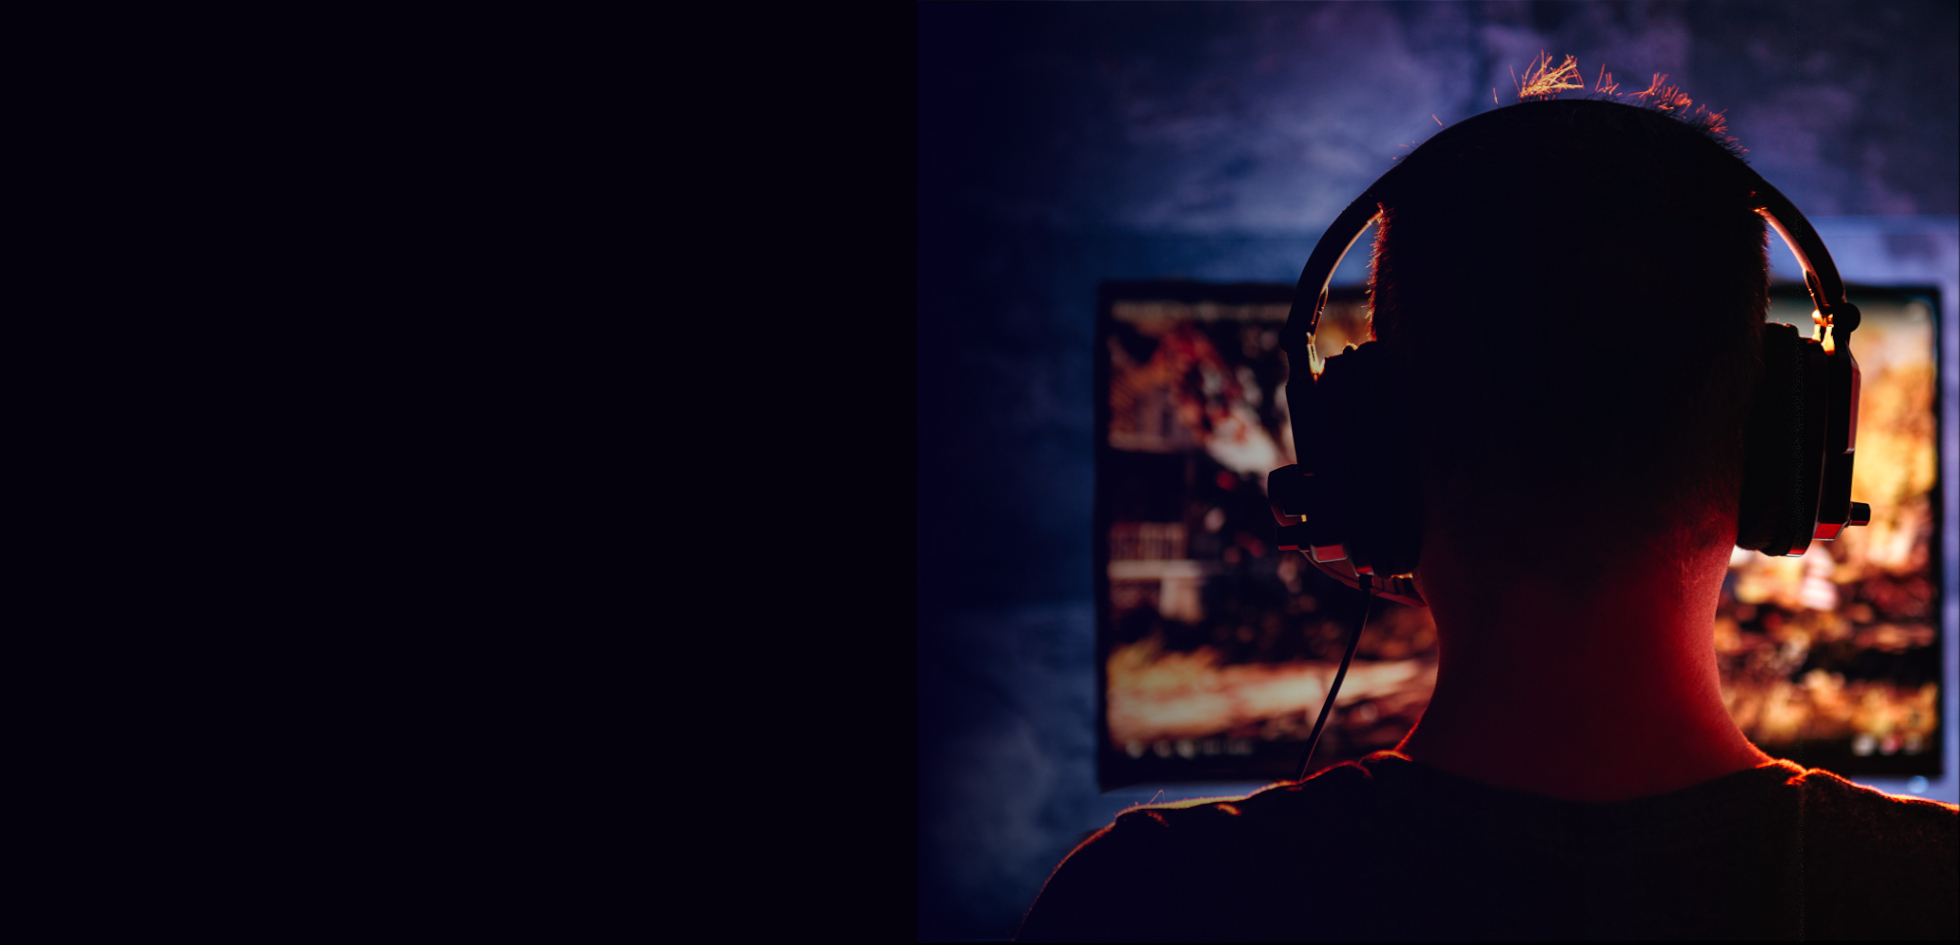
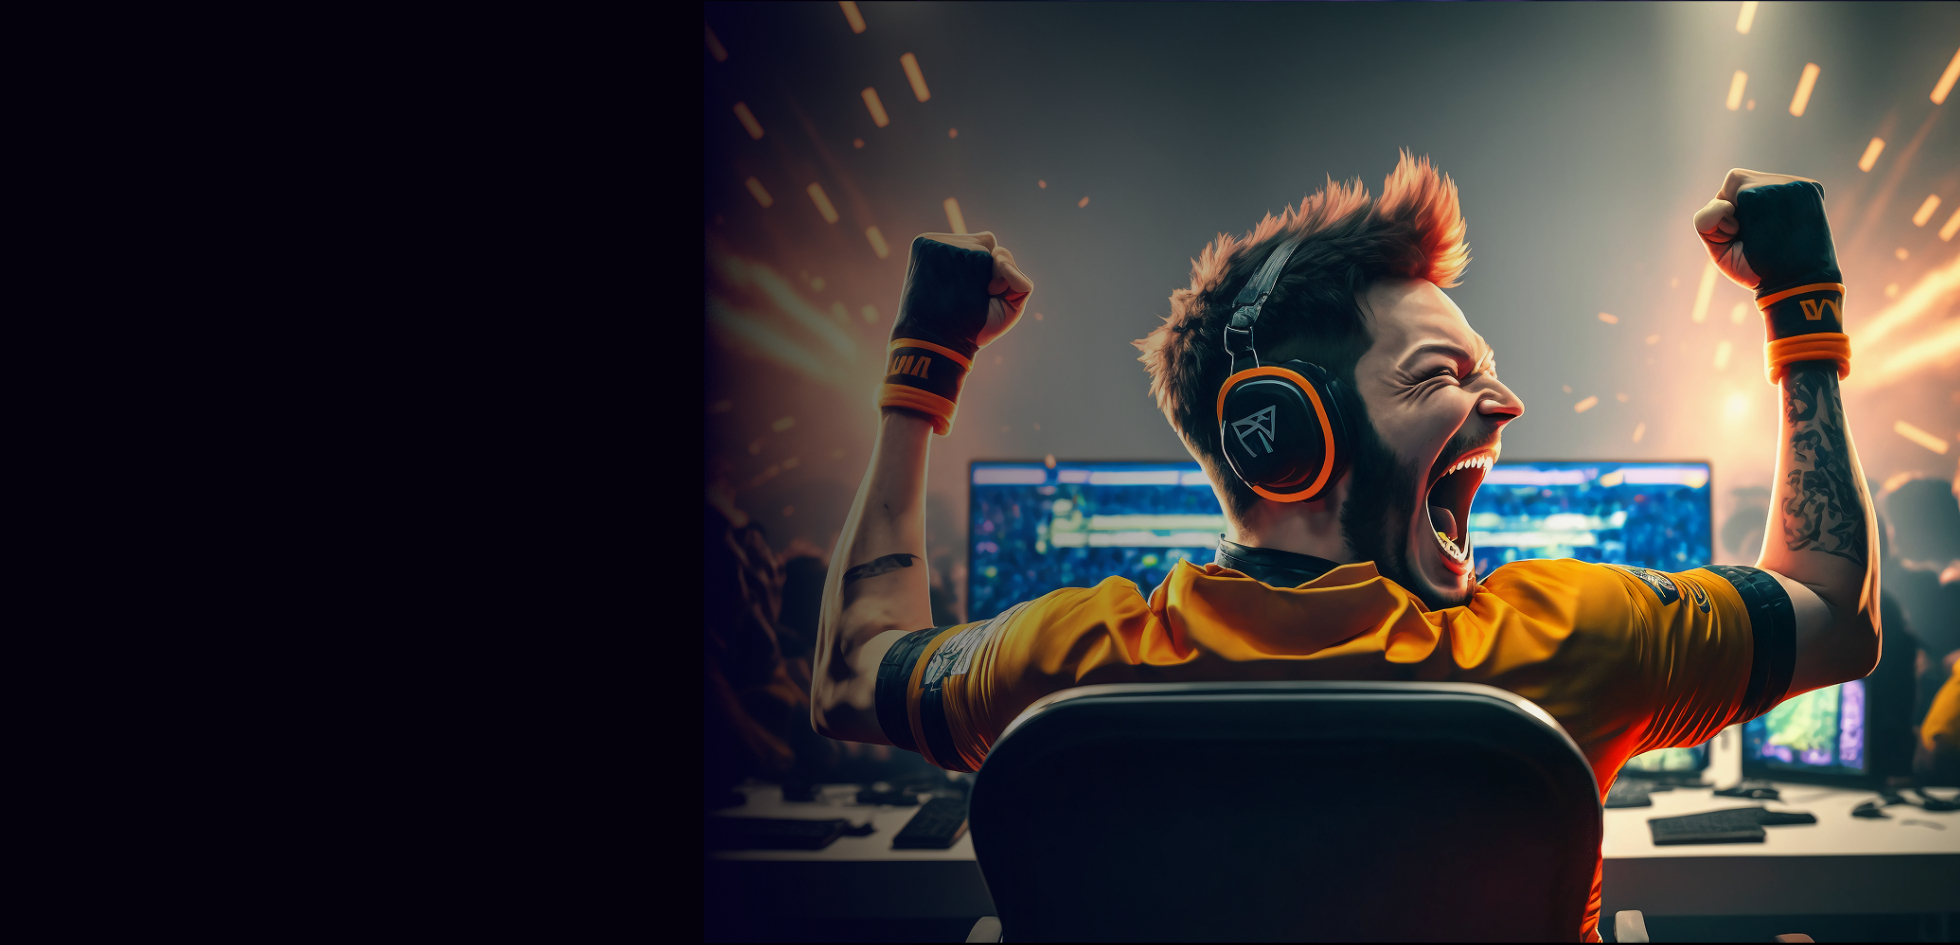
fixes

diff --git a/home.html b/home.html
@@ -38,7 +38,7 @@
       <!-- Buy Presale Button (Right) -->
       <div class="nav-right">
         <div class="divider"></div>
-        <a href="#" class="btn-presale">Buy Presale</a>
+        <a href="#" target="_blank" class="btn-presale">Buy Presale</a>
         <!-- Hamburger (Mobile) -->
         <button id="menu-btn" class="hamburger">
           <svg class="hamburger-icon" fill="none" stroke="currentColor" viewBox="0 0 24 24">
@@ -70,11 +70,11 @@
     <!-- Text Content -->
     <div class="slide-content">
       <h1 class="title gradient-text">
-        eCommerce Via Video Games<br> 
-        <span class="highlight-white">Gamify eCommerce & GamiFi transactions</span>
+        eCommerce Via Esports <br>Video Games<br> 
+        <span class="highlight-white">Gamify eCommerce<br>& GamiFi transactions</span>
       </h1>
       <p class="subtitle">
-        The first in kind Multifaceted & Play2Earn <br> Marketplace using Gaming, Streaming and Play<br> funding features powered by AI & Blockchain.
+        The first in kind Multifaceted & Play2Earn<br>Marketplace using Gaming, Streaming and Play<br>funding features powered by AI & Blockchain.
       </p>
     </div>
 
@@ -135,42 +135,46 @@
 
     <!-- Progress Bar Section -->
     <section class="progress-section">
-      <h2 class="section-title-white">Roadmap Progress</h2>
+  <h2 class="section-title-white">Roadmap Progress</h2>
+  <!-- Progress Line Behind -->
+  <div class="progress-bar">
+    <div class="progress-fill" style="width: 50%;"></div>
+  </div>
 
-      <div class="progress-bar">
-        <div class="progress-fill" style="width: 50%;"></div>
-        <div class="milestones">
-          <div class="milestone">
-            <div class="milestone-dot"></div>
-            <span>
-              Milestone 1<br>
-              <span class="timeline">Timeline 1</span>
-            </span>
-          </div>
-          <div class="milestone">
-            <div class="milestone-dot"></div>
-            <span>
-              Milestone 2<br>
-              <span class="timeline">Timeline 2</span>
-            </span>
-          </div>
-          <div class="milestone">
-            <div class="milestone-dot"></div>
-            <span>
-              Milestone 3<br>
-              <span class="timeline">Timeline 3</span>
-            </span>
-          </div>
-          <div class="milestone">
-            <div class="milestone-dot"></div>
-            <span>
-              Milestone 4<br>
-              <span class="timeline">Timeline 4</span>
-            </span>
-          </div>
-        </div>
-      </div>
-    </section>
+  <div class="milestones">
+    <div class="milestone">
+      <div class="milestone-dot"></div>
+      <span>
+        Accepted into HYPE Sports Innovation Accelerator - GVA2.0 & NFT programs - picked by 
+        <a href="https://geng.gg/" target="_blank">Gen.G</a> one of the World's leading Esports organizations connecting the U.S. and Asia.<br>
+        <span class="timeline">Timeline 1</span>
+      </span>
+    </div>
+    <div class="milestone">
+      <div class="milestone-dot"></div>
+      <span>
+        SellBuyPlay - Greek Branch has been approved as an OFFICIAL MEMBER of the National Startup Registry aka 
+        <a href="https://registry.elevategreece.gov.gr/company/sellbuyplay-greek-branch/" target="_blank">Elevate Greece</a>.<br>
+        <span class="timeline">Timeline 2</span>
+      </span>
+    </div>
+    <div class="milestone">
+      <div class="milestone-dot"></div>
+      <span>
+        Signed a SAFE agreement for our Angel round with a Greek Angel investor, acquiring a post-money valuation of €4Million.<br>
+        <span class="timeline">Timeline 3</span>
+      </span>
+    </div>
+    <div class="milestone">
+      <div class="milestone-dot"></div>
+      <span>
+        Preparing for an ICO & an IDO to launch/ pre-sale our Esports/ eCommerce oriented Crypto token- $SBP!<br>
+        <span class="timeline">Timeline 4</span>
+      </span>
+    </div>
+  </div>
+
+</section>
 
     <!-- Market Opportunity Section -->
 <section class="main-section">
@@ -273,7 +277,7 @@
       </div>
       <!-- Note -->
       <p class="note">
-        *Tokenomics are subject to be altered in accordance with IDO Presale performance, fellow gamers please help us raise it! This doesn't constitute an investment advise and you should DYOR!
+        *Tokenomics are subject to be altered in accordance with IDO Presale performance, fellow gamers please help us raise it - This doesn't constitute an investment advise and you should DYOR!
       </p>
     </div>
 
@@ -479,16 +483,16 @@
 
       <!-- Supported By -->
       <div class="footer-column">
-        <p class="section-title">Supported By</p>
+        <p class="section-title2">Supported By</p>
         <ul>
           <li>
-            <a href="https://www.hypesportsinnovation.com/startup/sellbuyplay/">
-              <img src="imgs/hype.jpg" alt="Elevate Greece">
+            <a href="https://registry.elevategreece.gov.gr/company/sellbuyplay-greek-branch/" target="_blank">
+              <img style="width: 180px;" src="imgs/elevateGreece.png" alt="Elevate Greece">
             </a>
           </li>
           <li>
-            <a href="https://registry.elevategreece.gov.gr/company/sellbuyplay-greek-branch/">
-              <img src="imgs/elevateGreece.png" alt="Elevate Greece">
+            <a href="https://www.hypesportsinnovation.com/startup/sellbuyplay/" target="_blank">
+              <img style="width: 180px;" src="imgs/hype.jpg" alt="Elevate Greece">
             </a>
           </li>
         </ul>
@@ -496,18 +500,18 @@
 
       <!-- Communities -->
       <div class="footer-column">
-        <p class="section-title">Join our Communities</p>
+        <p class="section-title2">Join our Communities</p>
         <div class="community-grid">
-          <a href="#"><img src="imgs/svg/telegram.svg"> Telegram</a>
-          <a href="#"><img src="imgs/svg/twitter.svg"> Twitter</a>
-          <a href="#"><img src="imgs/svg/facebook.svg"> Facebook</a>
-          <a href="#"><img src="imgs/svg/reddit.svg"> Reddit</a>
-          <a href="#" class="discord"><img src="imgs/svg/discord.svg"> Discord</a>
-          <a href="#"><img src="imgs/svg/linkedin.svg"> LinkedIn</a>
-          <a href="#"><img src="imgs/svg/medium.svg"> Medium</a>
-          <a href="#"><img src="imgs/svg/quora.svg"> Quora</a>
-          <a href="#"><img src="imgs/svg/instagram.svg"> Instagram</a>
-          <a href="#"><img src="imgs/svg/tiktok.svg"> TikTok</a>
+          <a href="#" target="_blank"><img src="imgs/svg/telegram.svg"> Telegram</a>
+          <a href="#" target="_blank"><img src="imgs/svg/twitter.svg"> Twitter</a>
+          <a href="#" target="_blank"><img src="imgs/svg/facebook.svg"> Facebook</a>
+          <a href="#" target="_blank"><img src="imgs/svg/reddit.svg"> Reddit</a>
+          <a href="#" target="_blank" class="discord"><img src="imgs/svg/discord.svg"> Discord</a>
+          <a href="#" target="_blank"><img src="imgs/svg/linkedin.svg"> LinkedIn</a>
+          <a href="#" target="_blank"><img src="imgs/svg/medium.svg"> Medium</a>
+          <a href="#" target="_blank"><img src="imgs/svg/quora.svg"> Quora</a>
+          <a href="#" target="_blank"><img src="imgs/svg/instagram.svg"> Instagram</a>
+          <a href="#" target="_blank"><img src="imgs/svg/tiktok.svg"> TikTok</a>
         </div>
       </div>
 
@@ -524,8 +528,5 @@
 
   </div>
 </footer>
-
-
-
 </body>
 </html>

diff --git a/style.css b/style.css
@@ -312,51 +312,57 @@
   box-shadow: 0 0 0 2px #1C75BC;
 }
 
-/* Progress Bar */
+
+/* Progress section */
+.progress-section {
+  position: relative;
+}
+
+/* Background bar */
 .progress-bar {
   position: relative;
   width: 100%;
   height: 0.5rem;
   background: #374151;
   border-radius: 9999px;
-  margin-bottom: 3rem;
+  margin-bottom: 0rem;
 }
 
 .progress-fill {
-  position: absolute;
-  top: 0;
-  left: 0;
-  height: 0.5rem;
+  height: 100%;
   background: linear-gradient(90deg, #004aad, #00c364);
   border-radius: 9999px;
 }
 
-/* Milestones */
+/* Milestones container */
 .milestones {
   display: flex;
   justify-content: space-between;
-  position: absolute;
-  top: -2rem;
-  left: 0;
-  width: 100%;
+  position: relative;
+  z-index: 1; /* ensures dots stay above the bar */
+  margin-top: 1rem;
+}
+
+/* Each milestone column */
+.milestone {
+  width: 22%; /* keeps spacing balanced */
+  text-align: center;
   font-size: 0.875rem;
   font-weight: 500;
 }
 
-.milestone {
-  display: flex;
-  flex-direction: column;
-  align-items: center;
-  width: 25%;
-  text-align: center;
-}
-
+/* Dot aligned with text */
 .milestone-dot {
   width: 1.25rem;
   height: 1.25rem;
   border-radius: 50%;
   background: #22c55e;
-  margin-bottom: 25px;
+  margin: -30px auto 1rem; /* centers above text */
+}
+
+.milestone a {
+  text-decoration: underline;
+  font-weight: bold;
 }
 
 .timeline {
@@ -369,7 +375,23 @@
 
 
 
+
+
                                             /* Small screrens */
+@media (max-width: 768px) {
+  .milestone-dot,.progress-bar {
+    display: none;
+  }
+  .milestone {
+    width: auto;
+    padding: 7%;
+  }
+
+  .milestones {
+    display:contents;
+  }
+}
+
 
 @media (min-width: 768px) {
   .slide-content {
@@ -452,13 +474,6 @@
   padding: 3rem 10%;
 }
 
-.section-title {
-  text-align: center;
-  font-size: 2.5rem;
-  font-weight: 700;
-  margin-bottom: 2.5rem;
-  color: #fff;
-}
 
 .sub-title {
   text-align: center;
@@ -555,7 +570,7 @@
 
 /* Heading */
 .video-title {
-  font-size: 1.5rem; /* Tailwind's text-2xl equivalent */
+  font-size: 1.75rem; /* Tailwind's text-2xl equivalent */
   font-weight: 700;
   color: #fff;
   margin-bottom: 1.5rem;
@@ -594,7 +609,7 @@
 /* Title */
 .section-title {
   text-align: center;
-  font-size: 2rem;
+  font-size: 1.75rem;
   font-weight: bold;
   margin-bottom: 2.5rem;
   color: #fff;
@@ -1015,8 +1030,13 @@
   }
 }
 
+.footer-column{
+  max-width: 250px;
+  max-height: 270px;
+}
+
 .footer-column h3,
-.section-title {
+.section-title2 {
   color: #fff;
   font-weight: 600;
   font-size: 1rem;
@@ -1042,7 +1062,7 @@
 
 .footer-column a:hover {
   color: #fff;
-  text-decoration: underline;
+  text-decoration: under  line;
 }
 
 /* Supported + Communities in center */

diff --git a/javas.js b/javas.js
@@ -14,34 +14,22 @@ window.addEventListener('DOMContentLoaded', () => {
 
   const slides = [
     {
-      image: "imgs/homeBGs/newDesign/2.jpg",
-      title: `eCommerce Via Video Games<br> 
-        <span class="highlight-white">Gamify eCommerce & GamiFi transactions</span>`,
-      subtitle: `The first in kind Multifaceted & Play2Earn <br> Marketplace using Gaming, Streaming and Play<br> funding features powered by AI & Blockchain.`
-    },
-    {
       image: "imgs/homeBGs/newDesign/1.jpg",
-      title: `The First ever Web3.0 "Play2Earn"<br>
+      title: `eCommerce Via Esports <br>Video Games<br> 
+        <span class="highlight-white">Gamify eCommerce<br>& GamiFi transactions</span>`,
+      subtitle: `The first in kind Multifaceted & Play2Earn<br>Marketplace using Gaming, Streaming and Play<br>funding features powered by AI & Blockchain.`
+    },
+    {
+      image: "imgs/homeBGs/newDesign/2.jpg",
+      title: `The First ever<br> Web3.0 "Play2Earn"<br>
         <span class="highlight-white">Network Marketplace!</span>`,
       subtitle: `Esports PvP Games & Tournaments with Real Life's<br> Tangible assets - Cash & NFTs as Rewards.`
     },
     {
-      image: "imgs/homeBGs/newDesign/5.jpg",
-      title: `eCommerce Via Esports Games<br> 
-        <span class="highlight-white">Gamify eCommerce & GamiFi transactions</span>`,
-      subtitle: `The first in kind Multifaceted & Hybrid <br> Marketplace using Gaming, Streaming and Playfunding<br> features powered by AI & Blockchain.`
-    },
-    // {
-    //   image: "imgs/homeBGs/newDesign/3.jpg",
-    //   title: `Connect Gamers, Teams, Streamers Community Organizers<br> 
-    //     <span class="highlight-white">with Brands Worldwide</span>`,
-    //   subtitle: `We offer Unique & Lucrative monetization streams<br> to profit via their Skills and Playtime.`
-    // }, 
-    {
-      image: "imgs/homeBGs/newDesign/4.jpg",
-      title: `The First ever Web3.0 "Play2Earn"<br>
-        <span class="highlight-white">Network Marketplace!</span>`,
-      subtitle: `Esports PvP Games & Tournaments with Real Life's<br> Tangible assets - Cash & NFTs as Rewards.`
+      image: "imgs/homeBGs/newDesign/3.jpg",
+      title: `Connect Gamers,<br> Teams, Streamers &<br>Community Organizers<br> 
+         <span class="highlight-white">with Brands Worldwide</span>`,
+      subtitle: `We offer Unique & Lucrative monetization streams<br> to profit via their Skills and Playtime.`
     }
   ];
 
@@ -56,7 +44,7 @@ window.addEventListener('DOMContentLoaded', () => {
     index = (index + 1) % slides.length;
   }
 
-  setInterval(changeSlide, 3000);
+  setInterval(changeSlide, 10000);
   changeSlide();
 
   // Render charts ONCE
